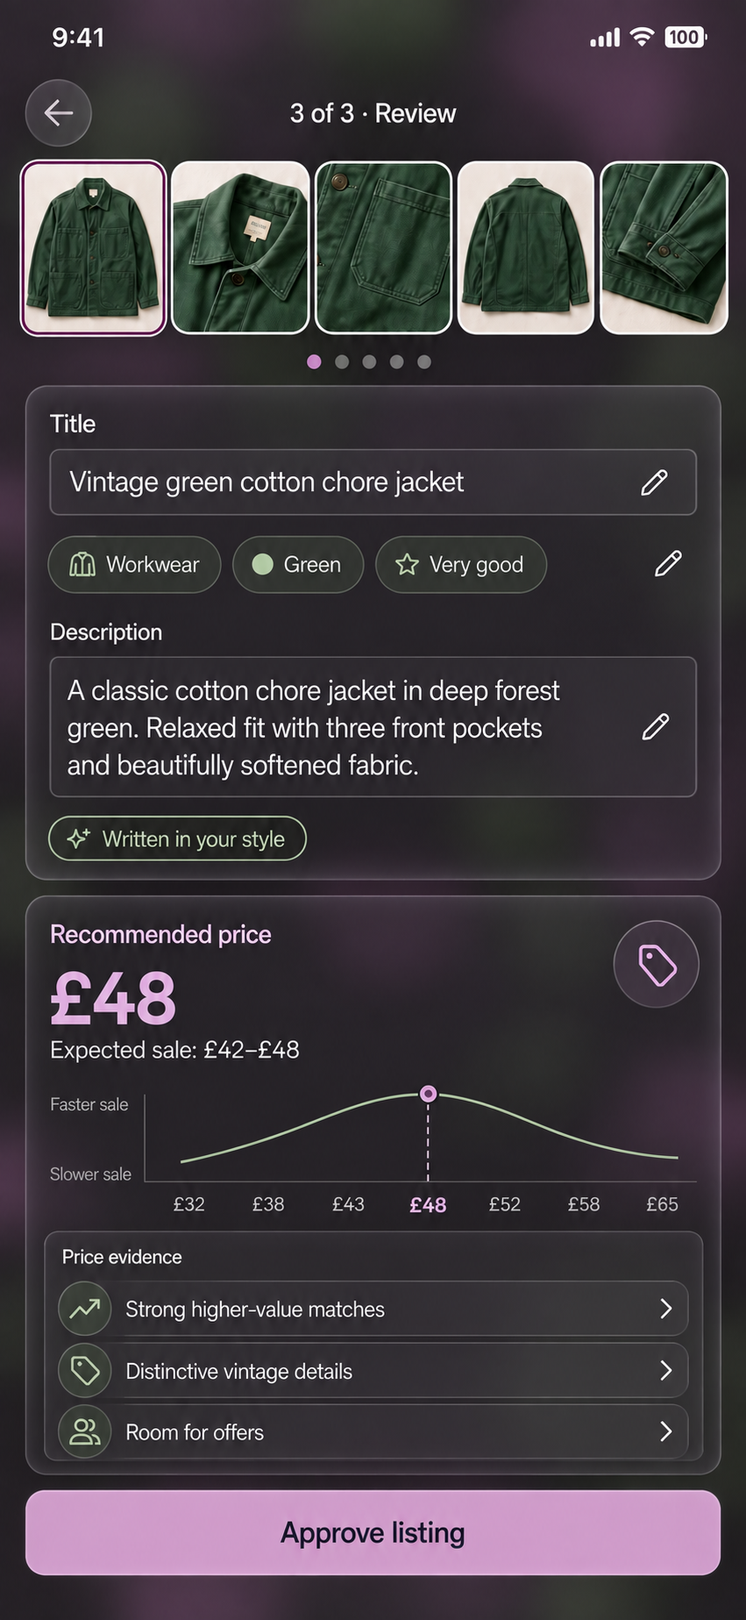
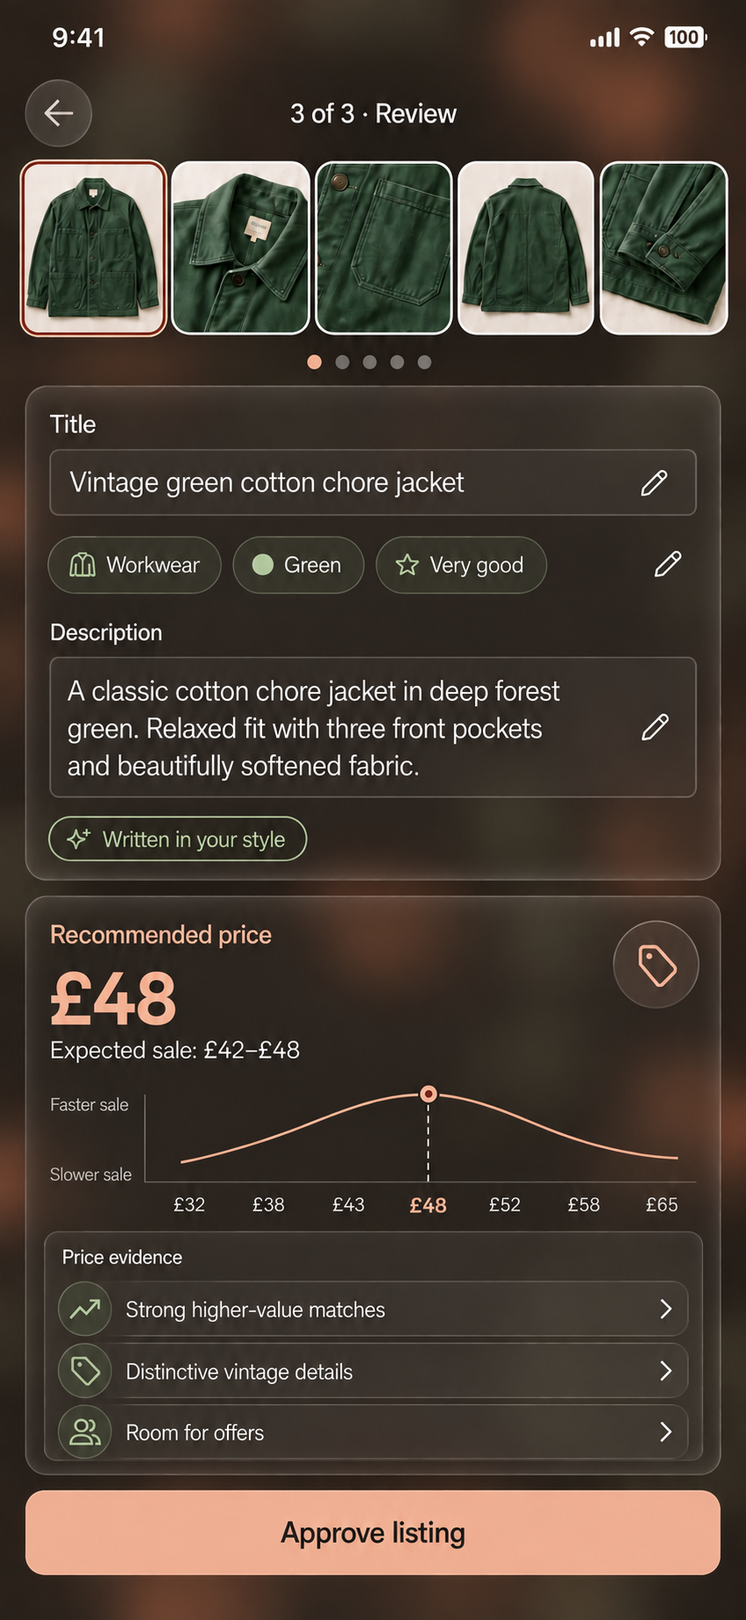
Use terracotta and linen for light and dark mockups

diff --git a/docs/mockups/GENERATION.md b/docs/mockups/GENERATION.md
@@ -1,88 +1,84 @@
-# Mockup generation prompts
+# Terracotta and linen mockup prompts
 
-Generated with the built-in image generation tool on 2026-09-12. Light variants use the original screen as an edit reference; dark variants use the matching generated light screen. These are visual concepts, not executable UI or accessibility measurements.
+Generated with the built-in image generation tool on 2026-09-12. Each edit used the corresponding glassmorphic mockup from commit 96df4fe as its reference. The eight outputs replace the previous palette at the same file paths. These are design concepts; final UI contrast must be verified in implementation.
 
 ## 01-sign-in-light.png
 
-Reference: 01-sign-in.png
-
 ```text
-Use case: ui-mockup / style-transfer.
-Regenerate the supplied Vintage mobile app screen as a polished glassmorphic UI design mockup. Preserve its exact screen purpose, all meaningful copy, values, information hierarchy and controls. Single flat full-screen portrait app screenshot, same approximately 393:852 aspect ratio as reference, no device frame, no perspective, no surrounding presentation, no extra labels or theme toggle. Follow system appearance automatically; no in-app theme setting. Keep Vintage branding, green vintage chore jacket photography where present, plum and sage accents, and clear sans-serif typography.
-Glass style: softly blurred atmospheric plum and sage gradients behind translucent frosted panels, delicate bright edge highlights, subtle layered shadows and rounded 20px cards. Deliberate restrained premium glass, not neon or excessive shine. Text and icons fully opaque, crisp and high contrast; inputs and primary actions clearly legible; retain generous spacing. Preserve photo colours, do not tint the item. Keep all content inside the canvas. Every screen belongs to the same coherent design system.
-Appearance: LIGHT. Warm ivory luminous background with diffuse pale sage and blush/plum colour clouds; milky translucent white glass surfaces, charcoal text, deep plum primary buttons with white text, muted dark sage evidence icons. Clearly visible frosted-glass layering while keeping an airy light appearance. Screen reference: 01-sign-in.
+Use case: style-transfer. Edit target: supplied Vintage 01-sign-in light glassmorphic mobile UI mockup.
+Change ONLY the UI colour palette to TERRACOTTA & LINEN. Preserve exact composition, layout, aspect ratio, all text verbatim, all prices and chart values, icons, typography, photos and control positions. Keep the frosted translucent glass panels, blurred atmospheric background, thin highlights and soft shadows. Do not add content, device frame, theme toggles, labels or settings.
+Remove ALL purple, plum, lavender, magenta and pink from the UI including gradients, buttons, brand wordmark, price, selection rings, chart markers, scan line, progress spinner, badges and decorative glows. Use warm earthy clay/rust, sand and linen instead. Keep muted sage only for existing semantic evidence/completion details; no green background glow. Preserve natural jacket and plant photography colours, no global orange filter, no sepia photo tint.
+LIGHT palette: warm linen #F7F0E6 canvas, softly blurred pale sand and muted terracotta clouds; milky linen-white frosted glass; warm charcoal #2B2521 text. Deep rust #984831 primary buttons with white labels, rust price and brand accents. Subtle warm clay scan light if present.
+Google button stays neutral frosted glass with readable contrasting text and unchanged multicolour G. Refined restrained tactile feel, no neon orange. Opaque high-contrast readable text on glass. Output one complete flat portrait screen matching the reference dimensions.
 ```
 
 ## 01-sign-in-dark.png
 
-Reference: 01-sign-in-light.png
-
 ```text
-Use case: style-transfer. Asset: Vintage mobile UI dark appearance mockup.
-Edit this LIGHT glassmorphic screen into its matching DARK system appearance. Preserve the exact layout, dimensions, typography, all text, controls, values, photo placement and image colours. Only change theme colours and surface lighting. Do not add or remove content, settings, labels or theme toggles. Single flat portrait app screenshot with no device frame.
-Dark palette: deep charcoal/plum background with softly blurred subdued plum and sage glows. Translucent dark charcoal/plum frosted-glass panels with fine pale edge highlights, soft shadows and subtle background blur. Fully opaque warm off-white primary text, legible pale neutral secondary text, pale sage evidence/check icons. Primary action buttons use a light muted plum fill with deep charcoal text. Google sign-in button uses dark frosted glass and warm white text with coloured G. Invert status-bar icons for dark background. Keep jacket photography natural and unchanged. If background contains photography, dim only that background for legibility. Restrained premium glass, no neon. Ensure text and controls are high contrast, never grey-on-grey. Exact same screen and content as reference; dark theme only.
+Use case: style-transfer. Edit target: supplied Vintage 01-sign-in dark glassmorphic mobile UI mockup.
+Change ONLY the UI colour palette to TERRACOTTA & LINEN. Preserve exact composition, layout, aspect ratio, all text verbatim, all prices and chart values, icons, typography, photos and control positions. Keep the frosted translucent glass panels, blurred atmospheric background, thin highlights and soft shadows. Do not add content, device frame, theme toggles, labels or settings.
+Remove ALL purple, plum, lavender, magenta and pink from the UI including gradients, buttons, brand wordmark, price, selection rings, chart markers, scan line, progress spinner, badges and decorative glows. Use warm earthy clay/rust, sand and linen instead. Keep muted sage only for existing semantic evidence/completion details; no green background glow. Preserve natural jacket and plant photography colours, no global orange filter, no sepia photo tint.
+DARK palette: deep warm charcoal #211C19 canvas, softly blurred muted burnt-clay and warm umber glows; translucent warm charcoal glass with pale linen edge highlights; linen #F7F0E6 text. Soft apricot #EDB59B primary buttons with warm charcoal #2B2521 labels, apricot price and accent details. Apricot scan light if present. No purple undertone anywhere.
+Google button stays neutral frosted glass with readable contrasting text and unchanged multicolour G. Refined restrained tactile feel, no neon orange. Opaque high-contrast readable text on glass. Output one complete flat portrait screen matching the reference dimensions.
 ```
 
 ## 02-add-photos-light.png
 
-Reference: 02-add-photos.png
-
 ```text
-Use case: ui-mockup / style-transfer.
-Regenerate the supplied Vintage mobile app screen as a polished glassmorphic UI design mockup. Preserve its exact screen purpose, all meaningful copy, values, information hierarchy and controls. Single flat full-screen portrait app screenshot, same approximately 393:852 aspect ratio as reference, no device frame, no perspective, no surrounding presentation, no extra labels or theme toggle. Follow system appearance automatically; no in-app theme setting. Keep Vintage branding, green vintage chore jacket photography where present, plum and sage accents, and clear sans-serif typography.
-Glass style: softly blurred atmospheric plum and sage gradients behind translucent frosted panels, delicate bright edge highlights, subtle layered shadows and rounded 20px cards. Deliberate restrained premium glass, not neon or excessive shine. Text and icons fully opaque, crisp and high contrast; inputs and primary actions clearly legible; retain generous spacing. Preserve photo colours, do not tint the item. Keep all content inside the canvas. Every screen belongs to the same coherent design system.
-Appearance: LIGHT. Warm ivory luminous background with diffuse pale sage and blush/plum colour clouds; milky translucent white glass surfaces, charcoal text, deep plum primary buttons with white text, muted dark sage evidence icons. Clearly visible frosted-glass layering while keeping an airy light appearance. Screen reference: 02-add-photos.
+Use case: style-transfer. Edit target: supplied Vintage 02-add-photos light glassmorphic mobile UI mockup.
+Change ONLY the UI colour palette to TERRACOTTA & LINEN. Preserve exact composition, layout, aspect ratio, all text verbatim, all prices and chart values, icons, typography, photos and control positions. Keep the frosted translucent glass panels, blurred atmospheric background, thin highlights and soft shadows. Do not add content, device frame, theme toggles, labels or settings.
+Remove ALL purple, plum, lavender, magenta and pink from the UI including gradients, buttons, brand wordmark, price, selection rings, chart markers, scan line, progress spinner, badges and decorative glows. Use warm earthy clay/rust, sand and linen instead. Keep muted sage only for existing semantic evidence/completion details; no green background glow. Preserve natural jacket and plant photography colours, no global orange filter, no sepia photo tint.
+LIGHT palette: warm linen #F7F0E6 canvas, softly blurred pale sand and muted terracotta clouds; milky linen-white frosted glass; warm charcoal #2B2521 text. Deep rust #984831 primary buttons with white labels, rust price and brand accents. Subtle warm clay scan light if present.
+Google button stays neutral frosted glass with readable contrasting text and unchanged multicolour G. Refined restrained tactile feel, no neon orange. Opaque high-contrast readable text on glass. Output one complete flat portrait screen matching the reference dimensions.
 ```
 
 ## 02-add-photos-dark.png
 
-Reference: 02-add-photos-light.png
-
 ```text
-Use case: style-transfer. Asset: Vintage mobile UI dark appearance mockup.
-Edit this LIGHT glassmorphic screen into its matching DARK system appearance. Preserve the exact layout, dimensions, typography, all text, controls, values, photo placement and image colours. Only change theme colours and surface lighting. Do not add or remove content, settings, labels or theme toggles. Single flat portrait app screenshot with no device frame.
-Dark palette: deep charcoal/plum background with softly blurred subdued plum and sage glows. Translucent dark charcoal/plum frosted-glass panels with fine pale edge highlights, soft shadows and subtle background blur. Fully opaque warm off-white primary text, legible pale neutral secondary text, pale sage evidence/check icons. Primary action buttons use a light muted plum fill with deep charcoal text. Google sign-in button uses dark frosted glass and warm white text with coloured G. Invert status-bar icons for dark background. Keep jacket photography natural and unchanged. If background contains photography, dim only that background for legibility. Restrained premium glass, no neon. Ensure text and controls are high contrast, never grey-on-grey. Exact same screen and content as reference; dark theme only.
+Use case: style-transfer. Edit target: supplied Vintage 02-add-photos dark glassmorphic mobile UI mockup.
+Change ONLY the UI colour palette to TERRACOTTA & LINEN. Preserve exact composition, layout, aspect ratio, all text verbatim, all prices and chart values, icons, typography, photos and control positions. Keep the frosted translucent glass panels, blurred atmospheric background, thin highlights and soft shadows. Do not add content, device frame, theme toggles, labels or settings.
+Remove ALL purple, plum, lavender, magenta and pink from the UI including gradients, buttons, brand wordmark, price, selection rings, chart markers, scan line, progress spinner, badges and decorative glows. Use warm earthy clay/rust, sand and linen instead. Keep muted sage only for existing semantic evidence/completion details; no green background glow. Preserve natural jacket and plant photography colours, no global orange filter, no sepia photo tint.
+DARK palette: deep warm charcoal #211C19 canvas, softly blurred muted burnt-clay and warm umber glows; translucent warm charcoal glass with pale linen edge highlights; linen #F7F0E6 text. Soft apricot #EDB59B primary buttons with warm charcoal #2B2521 labels, apricot price and accent details. Apricot scan light if present. No purple undertone anywhere.
+Google button stays neutral frosted glass with readable contrasting text and unchanged multicolour G. Refined restrained tactile feel, no neon orange. Opaque high-contrast readable text on glass. Output one complete flat portrait screen matching the reference dimensions.
 ```
 
 ## 03-building-draft-light.png
 
-Reference: 03-building-draft.png
-
 ```text
-Use case: ui-mockup / style-transfer.
-Regenerate the supplied Vintage mobile app screen as a polished glassmorphic UI design mockup. Preserve its exact screen purpose, all meaningful copy, values, information hierarchy and controls. Single flat full-screen portrait app screenshot, same approximately 393:852 aspect ratio as reference, no device frame, no perspective, no surrounding presentation, no extra labels or theme toggle. Follow system appearance automatically; no in-app theme setting. Keep Vintage branding, green vintage chore jacket photography where present, plum and sage accents, and clear sans-serif typography.
-Glass style: softly blurred atmospheric plum and sage gradients behind translucent frosted panels, delicate bright edge highlights, subtle layered shadows and rounded 20px cards. Deliberate restrained premium glass, not neon or excessive shine. Text and icons fully opaque, crisp and high contrast; inputs and primary actions clearly legible; retain generous spacing. Preserve photo colours, do not tint the item. Keep all content inside the canvas. Every screen belongs to the same coherent design system.
-Appearance: LIGHT. Warm ivory luminous background with diffuse pale sage and blush/plum colour clouds; milky translucent white glass surfaces, charcoal text, deep plum primary buttons with white text, muted dark sage evidence icons. Clearly visible frosted-glass layering while keeping an airy light appearance. Screen reference: 03-building-draft.
+Use case: style-transfer. Edit target: supplied Vintage 03-building-draft light glassmorphic mobile UI mockup.
+Change ONLY the UI colour palette to TERRACOTTA & LINEN. Preserve exact composition, layout, aspect ratio, all text verbatim, all prices and chart values, icons, typography, photos and control positions. Keep the frosted translucent glass panels, blurred atmospheric background, thin highlights and soft shadows. Do not add content, device frame, theme toggles, labels or settings.
+Remove ALL purple, plum, lavender, magenta and pink from the UI including gradients, buttons, brand wordmark, price, selection rings, chart markers, scan line, progress spinner, badges and decorative glows. Use warm earthy clay/rust, sand and linen instead. Keep muted sage only for existing semantic evidence/completion details; no green background glow. Preserve natural jacket and plant photography colours, no global orange filter, no sepia photo tint.
+LIGHT palette: warm linen #F7F0E6 canvas, softly blurred pale sand and muted terracotta clouds; milky linen-white frosted glass; warm charcoal #2B2521 text. Deep rust #984831 primary buttons with white labels, rust price and brand accents. Subtle warm clay scan light if present.
+Google button stays neutral frosted glass with readable contrasting text and unchanged multicolour G. Refined restrained tactile feel, no neon orange. Opaque high-contrast readable text on glass. Output one complete flat portrait screen matching the reference dimensions.
 ```
 
 ## 03-building-draft-dark.png
 
-Reference: 03-building-draft-light.png
-
 ```text
-Use case: style-transfer. Asset: Vintage mobile UI dark appearance mockup.
-Edit this LIGHT glassmorphic screen into its matching DARK system appearance. Preserve the exact layout, dimensions, typography, all text, controls, values, photo placement and image colours. Only change theme colours and surface lighting. Do not add or remove content, settings, labels or theme toggles. Single flat portrait app screenshot with no device frame.
-Dark palette: deep charcoal/plum background with softly blurred subdued plum and sage glows. Translucent dark charcoal/plum frosted-glass panels with fine pale edge highlights, soft shadows and subtle background blur. Fully opaque warm off-white primary text, legible pale neutral secondary text, pale sage evidence/check icons. Primary action buttons use a light muted plum fill with deep charcoal text. Google sign-in button uses dark frosted glass and warm white text with coloured G. Invert status-bar icons for dark background. Keep jacket photography natural and unchanged. If background contains photography, dim only that background for legibility. Restrained premium glass, no neon. Ensure text and controls are high contrast, never grey-on-grey. Exact same screen and content as reference; dark theme only.
+Use case: style-transfer. Edit target: supplied Vintage 03-building-draft dark glassmorphic mobile UI mockup.
+Change ONLY the UI colour palette to TERRACOTTA & LINEN. Preserve exact composition, layout, aspect ratio, all text verbatim, all prices and chart values, icons, typography, photos and control positions. Keep the frosted translucent glass panels, blurred atmospheric background, thin highlights and soft shadows. Do not add content, device frame, theme toggles, labels or settings.
+Remove ALL purple, plum, lavender, magenta and pink from the UI including gradients, buttons, brand wordmark, price, selection rings, chart markers, scan line, progress spinner, badges and decorative glows. Use warm earthy clay/rust, sand and linen instead. Keep muted sage only for existing semantic evidence/completion details; no green background glow. Preserve natural jacket and plant photography colours, no global orange filter, no sepia photo tint.
+DARK palette: deep warm charcoal #211C19 canvas, softly blurred muted burnt-clay and warm umber glows; translucent warm charcoal glass with pale linen edge highlights; linen #F7F0E6 text. Soft apricot #EDB59B primary buttons with warm charcoal #2B2521 labels, apricot price and accent details. Apricot scan light if present. No purple undertone anywhere.
+Google button stays neutral frosted glass with readable contrasting text and unchanged multicolour G. Refined restrained tactile feel, no neon orange. Opaque high-contrast readable text on glass. Output one complete flat portrait screen matching the reference dimensions.
 ```
 
 ## 04-review-light.png
 
-Reference: 04-review.png
-
 ```text
-Use case: ui-mockup / style-transfer.
-Regenerate the supplied Vintage mobile app screen as a polished glassmorphic UI design mockup. Preserve its exact screen purpose, all meaningful copy, values, information hierarchy and controls. Single flat full-screen portrait app screenshot, same approximately 393:852 aspect ratio as reference, no device frame, no perspective, no surrounding presentation, no extra labels or theme toggle. Follow system appearance automatically; no in-app theme setting. Keep Vintage branding, green vintage chore jacket photography where present, plum and sage accents, and clear sans-serif typography.
-Glass style: softly blurred atmospheric plum and sage gradients behind translucent frosted panels, delicate bright edge highlights, subtle layered shadows and rounded 20px cards. Deliberate restrained premium glass, not neon or excessive shine. Text and icons fully opaque, crisp and high contrast; inputs and primary actions clearly legible; retain generous spacing. Preserve photo colours, do not tint the item. Keep all content inside the canvas. Every screen belongs to the same coherent design system.
-Appearance: LIGHT. Warm ivory luminous background with diffuse pale sage and blush/plum colour clouds; milky translucent white glass surfaces, charcoal text, deep plum primary buttons with white text, muted dark sage evidence icons. Clearly visible frosted-glass layering while keeping an airy light appearance. Screen reference: 04-review.
+Use case: style-transfer. Edit target: supplied Vintage 04-review light glassmorphic mobile UI mockup.
+Change ONLY the UI colour palette to TERRACOTTA & LINEN. Preserve exact composition, layout, aspect ratio, all text verbatim, all prices and chart values, icons, typography, photos and control positions. Keep the frosted translucent glass panels, blurred atmospheric background, thin highlights and soft shadows. Do not add content, device frame, theme toggles, labels or settings.
+Remove ALL purple, plum, lavender, magenta and pink from the UI including gradients, buttons, brand wordmark, price, selection rings, chart markers, scan line, progress spinner, badges and decorative glows. Use warm earthy clay/rust, sand and linen instead. Keep muted sage only for existing semantic evidence/completion details; no green background glow. Preserve natural jacket and plant photography colours, no global orange filter, no sepia photo tint.
+LIGHT palette: warm linen #F7F0E6 canvas, softly blurred pale sand and muted terracotta clouds; milky linen-white frosted glass; warm charcoal #2B2521 text. Deep rust #984831 primary buttons with white labels, rust price and brand accents. Subtle warm clay scan light if present.
+Google button stays neutral frosted glass with readable contrasting text and unchanged multicolour G. Refined restrained tactile feel, no neon orange. Opaque high-contrast readable text on glass. Output one complete flat portrait screen matching the reference dimensions.
 ```
 
 ## 04-review-dark.png
 
-Reference: 04-review-light.png
-
 ```text
-Use case: style-transfer. Asset: Vintage mobile UI dark appearance mockup.
-Edit this LIGHT glassmorphic screen into its matching DARK system appearance. Preserve the exact layout, dimensions, typography, all text, controls, values, photo placement and image colours. Only change theme colours and surface lighting. Do not add or remove content, settings, labels or theme toggles. Single flat portrait app screenshot with no device frame.
-Dark palette: deep charcoal/plum background with softly blurred subdued plum and sage glows. Translucent dark charcoal/plum frosted-glass panels with fine pale edge highlights, soft shadows and subtle background blur. Fully opaque warm off-white primary text, legible pale neutral secondary text, pale sage evidence/check icons. Primary action buttons use a light muted plum fill with deep charcoal text. Google sign-in button uses dark frosted glass and warm white text with coloured G. Invert status-bar icons for dark background. Keep jacket photography natural and unchanged. If background contains photography, dim only that background for legibility. Restrained premium glass, no neon. Ensure text and controls are high contrast, never grey-on-grey. Exact same screen and content as reference; dark theme only.
+Use case: style-transfer. Edit target: supplied Vintage 04-review dark glassmorphic mobile UI mockup.
+Change ONLY the UI colour palette to TERRACOTTA & LINEN. Preserve exact composition, layout, aspect ratio, all text verbatim, all prices and chart values, icons, typography, photos and control positions. Keep the frosted translucent glass panels, blurred atmospheric background, thin highlights and soft shadows. Do not add content, device frame, theme toggles, labels or settings.
+Remove ALL purple, plum, lavender, magenta and pink from the UI including gradients, buttons, brand wordmark, price, selection rings, chart markers, scan line, progress spinner, badges and decorative glows. Use warm earthy clay/rust, sand and linen instead. Keep muted sage only for existing semantic evidence/completion details; no green background glow. Preserve natural jacket and plant photography colours, no global orange filter, no sepia photo tint.
+DARK palette: deep warm charcoal #211C19 canvas, softly blurred muted burnt-clay and warm umber glows; translucent warm charcoal glass with pale linen edge highlights; linen #F7F0E6 text. Soft apricot #EDB59B primary buttons with warm charcoal #2B2521 labels, apricot price and accent details. Apricot scan light if present. No purple undertone anywhere.
+Google button stays neutral frosted glass with readable contrasting text and unchanged multicolour G. Refined restrained tactile feel, no neon orange. Opaque high-contrast readable text on glass. Output one complete flat portrait screen matching the reference dimensions.
 ```
 

diff --git a/UX_DESIGN.md b/UX_DESIGN.md
@@ -137,16 +137,19 @@ Approval resolves to a compact success state within the review screen. It shows 
 
 ## Visual language
 
-The interface uses glassmorphic surfaces in both light and dark appearances. Translucent, softly blurred cards sit over restrained plum and sage background gradients, with fine edge highlights and subtle shadows. Text, icons, photos, and essential controls remain crisp and opaque.
+The interface uses a terracotta and linen palette with glassmorphic surfaces in both light and dark appearances. Translucent, softly blurred cards sit over restrained terracotta and sand background gradients, with fine edge highlights and subtle shadows. Text, icons, photos, and essential controls remain crisp and opaque.
 
 | Element | Light appearance | Dark appearance |
 | --- | --- | --- |
-| Canvas | Warm ivory with pale plum and sage gradients | Deep charcoal/plum with muted plum and sage glows |
-| Glass surfaces | Frosted translucent white | Frosted translucent charcoal/plum |
-| Text | Deep charcoal | Warm off-white |
-| Primary actions | Deep plum with white text | Light plum with deep charcoal text |
+| Canvas | Linen `#F7F0E6` with pale sand and terracotta gradients | Warm charcoal `#211C19` with muted clay and umber glows |
+| Glass surfaces | Frosted translucent linen-white | Frosted translucent warm charcoal |
+| Text | Warm charcoal `#2B2521` | Linen `#F7F0E6` |
+| Primary actions | Rust `#984831` with white text | Soft apricot `#EDB59B` with warm charcoal text |
+| Price, selection, and progress accents | Rust `#984831` | Soft apricot `#EDB59B` |
 | Evidence and completion | Dark sage | Pale sage |
 | Inputs and boundaries | Defined neutral edges and light fills | Visible pale edges and dark fills |
+
+Sage remains a secondary colour for evidence and completion. Decorative glows use clay and sand; photographs retain their natural colours. Palette values are implementation targets, subject to contrast verification on the final composited surfaces.
 
 Both appearances use generous whitespace, an 8-pixel spacing grid, rounded surfaces, highly legible sans-serif type, and item photography whose colours remain unchanged by the theme.
 
